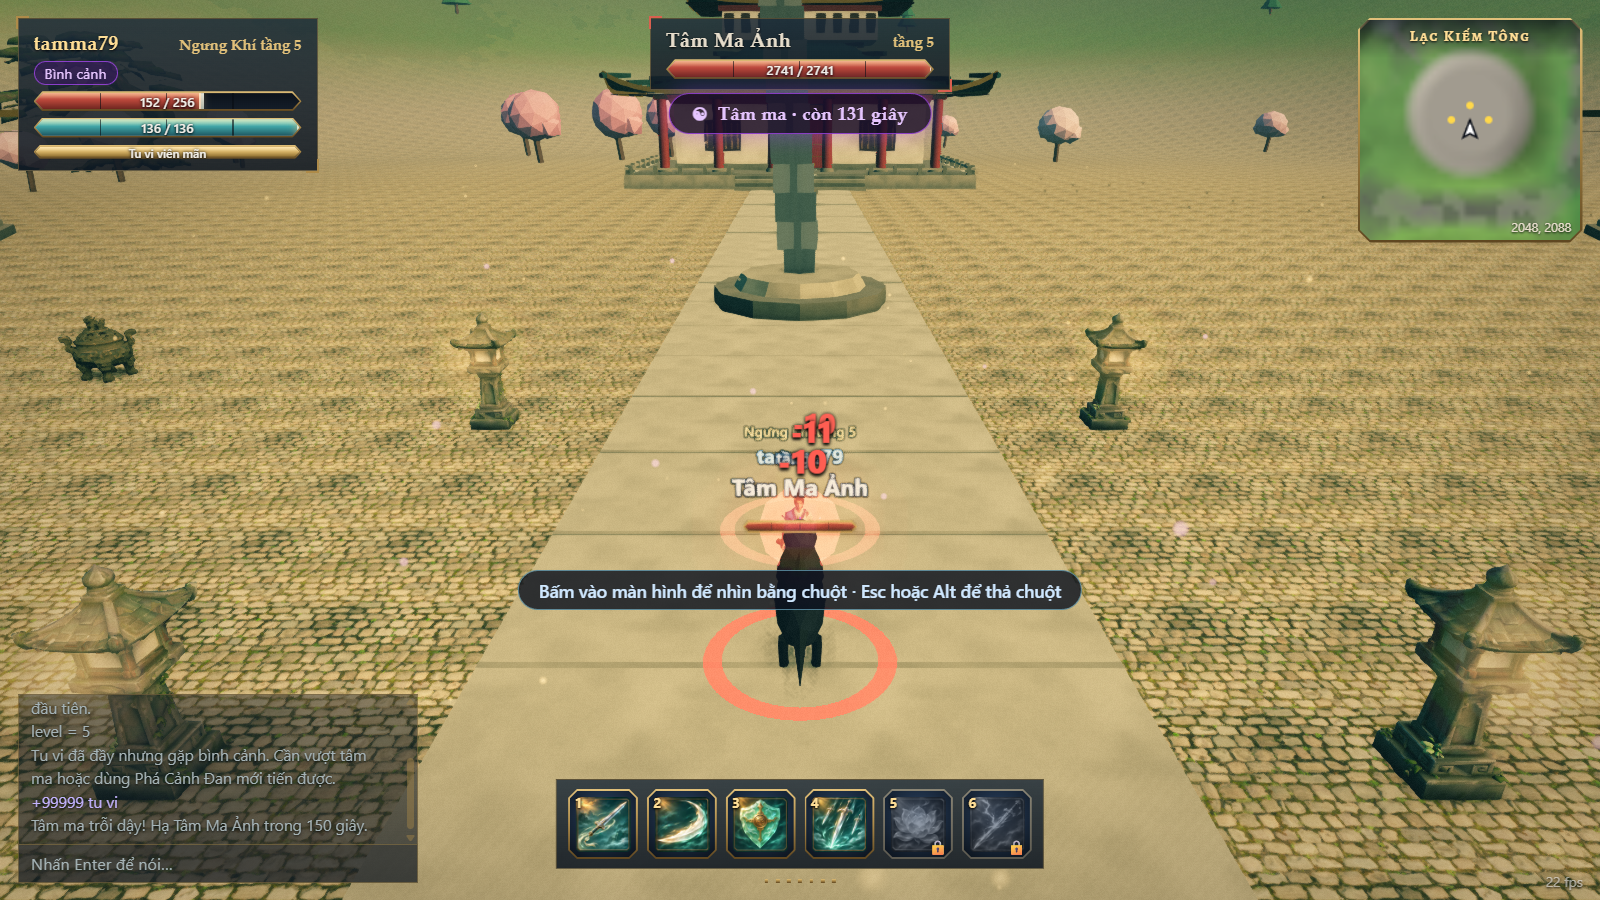
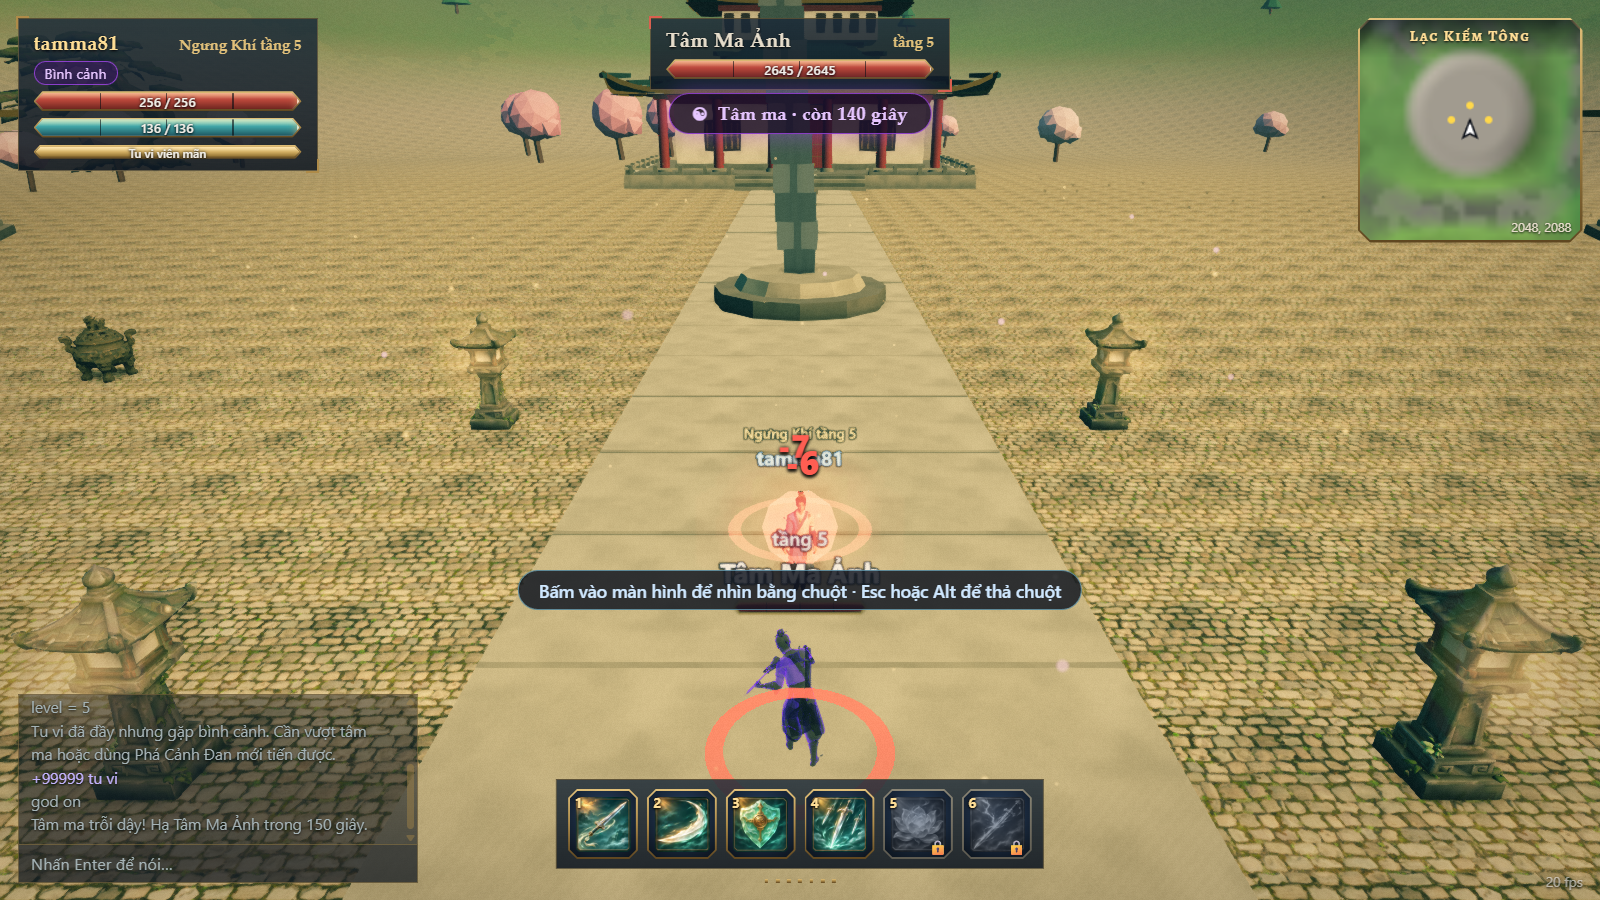
fix: P3-7 bóng tâm ma là bản sao model người đen-tím, đặt đối diện; sửa nút chọn linh căn ở đăng nhập

diff --git a/apps/client/src/game/character/playerSkins.ts b/apps/client/src/game/character/playerSkins.ts
@@ -1,12 +1,13 @@
 import * as THREE from 'three/webgpu';
 import { clone as cloneSkinned } from 'three/addons/utils/SkeletonUtils.js';
 import { APPEARANCE, DYE } from '@dtl/content';
-import { type Gender, POSE_SWORD_DRAW, POSE_SWORD_SHEATHE, POSE_SWORD_SWAP } from '@dtl/shared';
+import { type Gender, type MonsterDef, POSE_SWORD_DRAW, POSE_SWORD_SHEATHE, POSE_SWORD_SWAP } from '@dtl/shared';
 import { type AssetCache, type AssetHandle, assets } from '../assets';
 import { buildFlySword, Humanoid } from '../models';
 import { adoptGltfMaterials } from '../../render/materials/world';
 import { acquireWithHumanLib, mergeClips, retargetClips } from './animLib';
 import { applyDye } from './dye';
+import { applyPalette } from './monsterSkins';
 import { poseClipName } from './ikpose';
 import { libraryClips, type PoseLibrary, withPoses } from './poseLib';
 import { type HitOpts } from '../hitreact';
@@ -14,7 +15,7 @@ import { SkinnedCharacter, type SkinnedOpts } from './skinned';
 import { type SpringDef, springDefs } from './spring';
 import { partExtras, stripPartTracks, SwordSocket, type SwordSocketDef, swordSocketDef } from './sword';
 import type { CharState, ClipMap } from './states';
-import { type AnimState, type CharacterView, legacyModelsRequested, type PerformOpts } from './view';
+import { type AnimState, type CharacterView, legacyModelsRequested, type MonsterView, type PerformOpts } from './view';
 
 /** Ngoại hình hiển thị của một người chơi (từ schema server: `g`, `dye`). */
 export interface PlayerLook {
@@ -134,12 +135,36 @@ export class PlayerSkins {
     if (id && skin && !this.legacy) this.load(id);
     const t = id && skin && !this.legacy ? this.templates.get(id) : undefined;
     if (!id || !skin || !t || typeof t === 'string') return new Humanoid({ robe: dye.hex, trim: dye.trim, sword: true });
+    return this.build(id, skin, t, this.material(id, skin, t, dye.id, dye.hex));
+  }
+
+  /** Asset người của `look` chưa nạp xong (bóng tâm ma tạm dùng model khối của quái). */
+  shadowPending(look: PlayerLook): boolean {
+    return this.pending(look);
+  }
+
+  /**
+   * Bóng tâm ma (P3-7): bản sao model người chơi (cùng giới), nhuộm đen-tím mờ, viền khói tím ở mép.
+   * Trả null nếu asset chưa nạp hoặc đang `?models=legacy` (bên gọi dùng model quái dự phòng).
+   */
+  createShadow(look: PlayerLook, def: MonsterDef): MonsterView | null {
+    const id = modelOf(look.g);
+    const skin = id ? PLAYER_SKINS[id] : undefined;
+    if (!id || !skin || this.legacy) return null;
+    this.load(id);
+    const t = this.templates.get(id);
+    if (!t || typeof t === 'string') return null;
+    const view = this.build(id, skin, t, this.shadowMaterial(id, t));
+    return Object.assign(view, { def }) as unknown as MonsterView;
+  }
+
+  private build(id: string, skin: PlayerSkin, t: Template, mat: THREE.MeshStandardNodeMaterial): SkinnedPlayer {
     const scene = cloneSkinned(t.handle.scene);
-    const mat = this.material(id, skin, t, dye.id, dye.hex);
     scene.traverse((o) => {
       const m = o as THREE.Mesh;
       if (m.isMesh) m.material = mat;
     });
+    void id;
     return new SkinnedPlayer(
       {
         scene,
@@ -198,6 +223,24 @@ export class PlayerSkins {
         this.templates.set(id, 'failed');
       },
     );
+  }
+
+  private shadowMaterial(id: string, t: Template): THREE.MeshStandardNodeMaterial {
+    const key = `${id}/shadow`;
+    let m = this.mats.get(key);
+    if (m) return m;
+    let src: THREE.Material | null = null;
+    t.handle.scene.traverse((o) => {
+      const mesh = o as THREE.Mesh;
+      if (!src && mesh.isMesh) src = Array.isArray(mesh.material) ? mesh.material[0] : mesh.material;
+    });
+    m = adoptGltfMaterials(new THREE.Mesh(undefined, src ?? undefined))[0];
+    applyPalette(m, { dark: '#0d0916', light: '#4a3566', glow: '#b04bff' });
+    m.transparent = true;
+    m.opacity = 0.78;
+    m.depthWrite = false;
+    this.mats.set(key, m);
+    return m;
   }
 
   private material(id: string, skin: PlayerSkin, t: Template, dyeId: string, hex: string): THREE.MeshStandardNodeMaterial {

diff --git a/apps/client/src/game/entities.ts b/apps/client/src/game/entities.ts
@@ -324,6 +324,8 @@ export class EntityManager {
   private skins = new MonsterSkins();
   /** Dựng model người chơi (Thanh Phong có xương hoặc khối dự phòng), màu áo theo lựa chọn. */
   private playerSkins = new PlayerSkins();
+  /** Ngoại hình của mình: bóng tâm ma dựng theo đây (chỉ người độ mới thấy gần, và là bóng của chính mình). */
+  private localLook: PlayerLook = { g: APPEARANCE.defaultGender, dye: APPEARANCE.defaultDye };
   /** Dựng model NPC (có xương theo id dữ liệu hoặc khối dự phòng). */
   private npcSkins = new NpcSkins();
   hasNpcs: boolean;
@@ -339,6 +341,10 @@ export class EntityManager {
     scene.add(this.group);
     this.skins.preload();
     this.playerSkins.preload();
+    this.skins.shadow = {
+      create: (def) => this.playerSkins.createShadow(this.localLook, def),
+      pending: () => this.playerSkins.shadowPending(this.localLook),
+    };
     // Bí cảnh có boss model xương: nạp ngay khi vào room (trước đó chỉ nạp khi boss hiện ra giữa trận).
     if (levelId === 'kiem_trung') this.skins.preloadLazy();
     this.hasNpcs = levelId === 'van_lam';
@@ -435,6 +441,7 @@ export class EntityManager {
       }
       v.s = s;
       const look = lookOf(s);
+      if (isLocal) this.localLook = look;
       const lookChanged = look.g !== v.look.g || look.dye !== v.look.dye;
       if (lookChanged || (v.skinPending && !this.playerSkins.pending(look))) {
         v.skinPending = this.playerSkins.pending(look);

diff --git a/apps/client/src/game/character/monsterSkins.ts b/apps/client/src/game/character/monsterSkins.ts
@@ -100,6 +100,8 @@ export class MonsterSkins {
   private templates = new Map<string, Template | 'loading' | 'failed'>();
   private mats = new Map<string, THREE.MeshStandardNodeMaterial>();
   private disposed = false;
+  /** Bóng tâm ma (P3-7) là bản sao model người chơi: EntityManager nối vào PlayerSkins (cùng giới/đạo bào của mình). */
+  shadow: { create(def: MonsterDef): MonsterView | null; pending(): boolean } | null = null;
 
   constructor(
     private cache: AssetCache = assets,
@@ -120,6 +122,7 @@ export class MonsterSkins {
 
   /** Quái này sẽ có model mới nhưng asset đang nạp (tạm dùng model khối, nạp xong thì đổi). Asset lười bắt đầu nạp ở đây. */
   pending(def: MonsterDef): boolean {
+    if (def.id === 'mon_tam_ma' && this.shadow) return this.shadow.pending();
     const s = MONSTER_SKINS[def.id];
     if (this.legacy || !s) return false;
     if (s.lazy) this.load(s.asset);
@@ -127,6 +130,10 @@ export class MonsterSkins {
   }
 
   create(def: MonsterDef): MonsterView {
+    if (def.id === 'mon_tam_ma') {
+      const v = this.shadow?.create(def);
+      if (v) return v;
+    }
     const s = MONSTER_SKINS[def.id];
     const t = s && !this.legacy ? this.templates.get(s.asset) : undefined;
     if (!s || !t || typeof t === 'string') return new MonsterModel(def);

diff --git a/apps/client/src/ui/realm.css b/apps/client/src/ui/realm.css
@@ -101,7 +101,23 @@
   cursor: pointer;
 }
 .root-opt.sel {
-  outline: 2px solid var(--k-gold);
+  outline: 2px solid #9d392e;
+  outline-offset: 1px;
+}
+/* Nút "để thiên ý định đoạt": cùng kiểu .look-gender của màn đăng nhập (chữ tối trên nền be). */
+.root-opt.rnd {
+  border: 1px solid rgba(174, 139, 73, 0.7);
+  border-radius: 3px;
+  background: rgba(255, 252, 244, 0.6);
+  color: #4d3324;
+  font: inherit;
+  font-size: 13px;
+}
+.root-opt.rnd.sel {
+  outline: none;
+  border-color: #9d392e;
+  background: rgba(157, 57, 46, 0.12);
+  font-weight: 700;
 }
 .root-pick-desc {
   min-height: 1.3em;

diff --git a/apps/server/src/game/sim.ts b/apps/server/src/game/sim.ts
@@ -1796,8 +1796,8 @@ export class GameSim {
   private spawnShadow(p: PlayerEnt, st: { hp: number; atk: number; def: number }): MonEnt | null {
     const def = MONSTER.get('mon_tam_ma');
     if (!def) return null;
-    const x = p.move.x + Math.sin(p.lastYaw) * 7;
-    const z = p.move.z + Math.cos(p.lastYaw) * 7;
+    const x = p.move.x + Math.sin(p.s.yaw) * 7;
+    const z = p.move.z + Math.cos(p.s.yaw) * 7;
     const m = this.spawnMonster(def, p.char.level, x, z, null);
     m.owner = p.sid;
     m.atk = st.atk;
